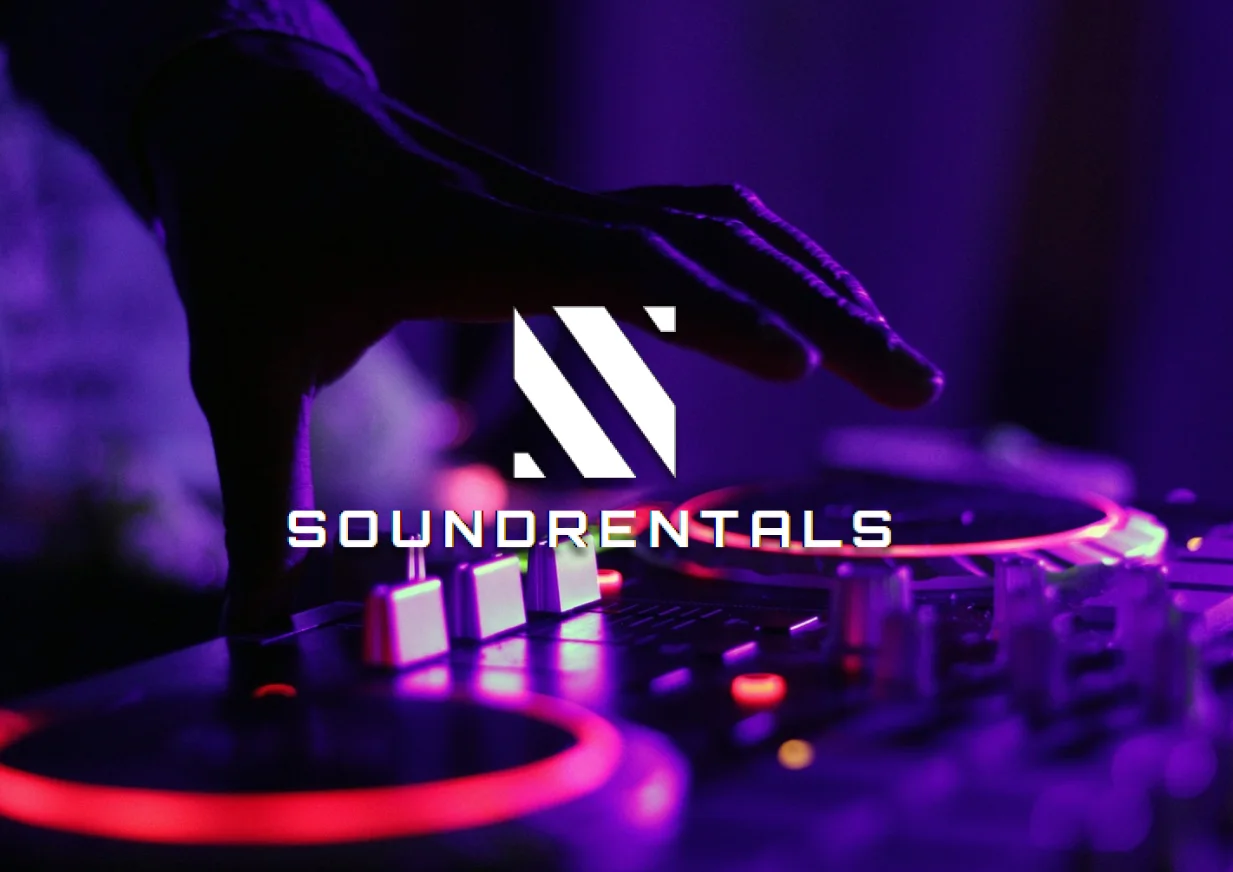
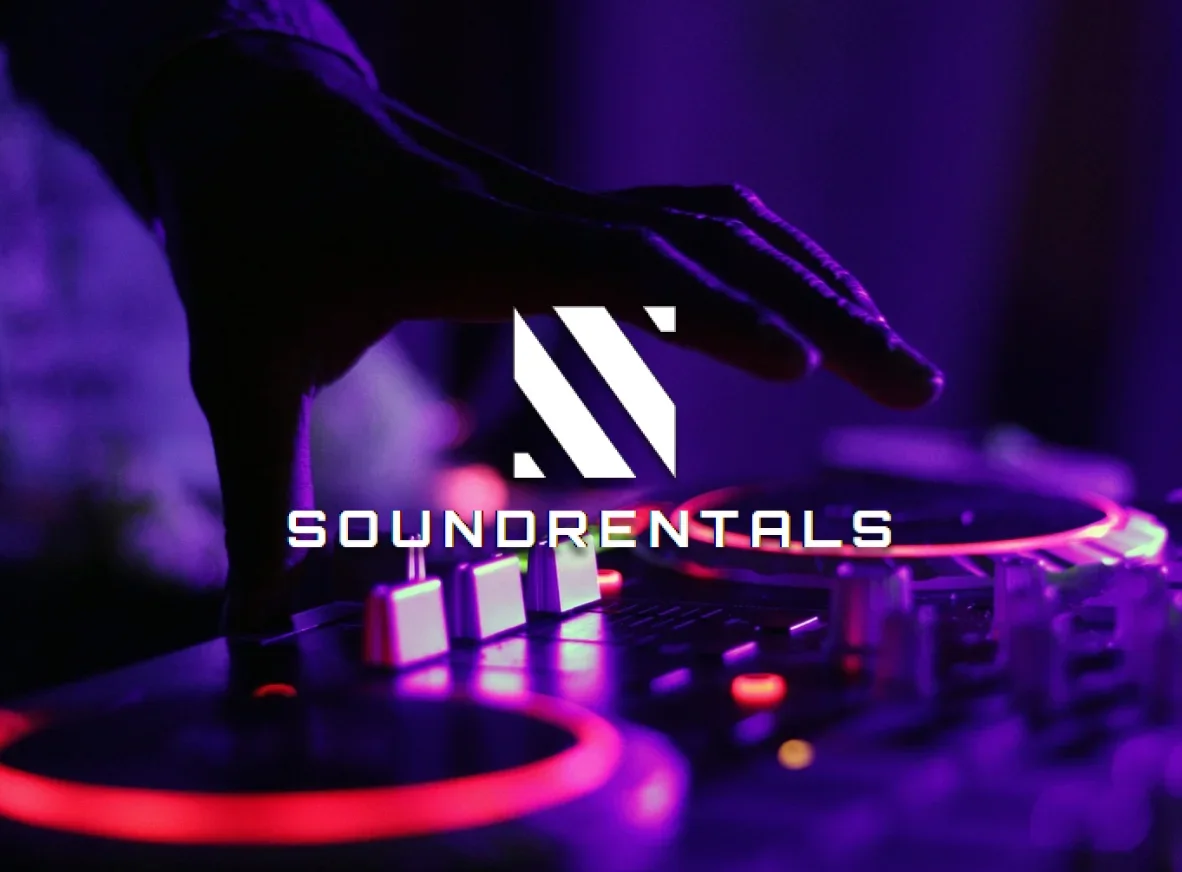
Se optimiza formato de imagen

diff --git a/src/assets/images/projects/soundRentals/soundRentalsIndex.js b/src/assets/images/projects/soundRentals/soundRentalsIndex.js
@@ -1,2 +1,2 @@
 export { default as SoundRentals_1 } from "./SoundRentals-1.webp";
-export { default as SoundRentals_2 } from "./SoundRentals-2.png";
+export { default as SoundRentals_2 } from "./SoundRentals-2.webp";
